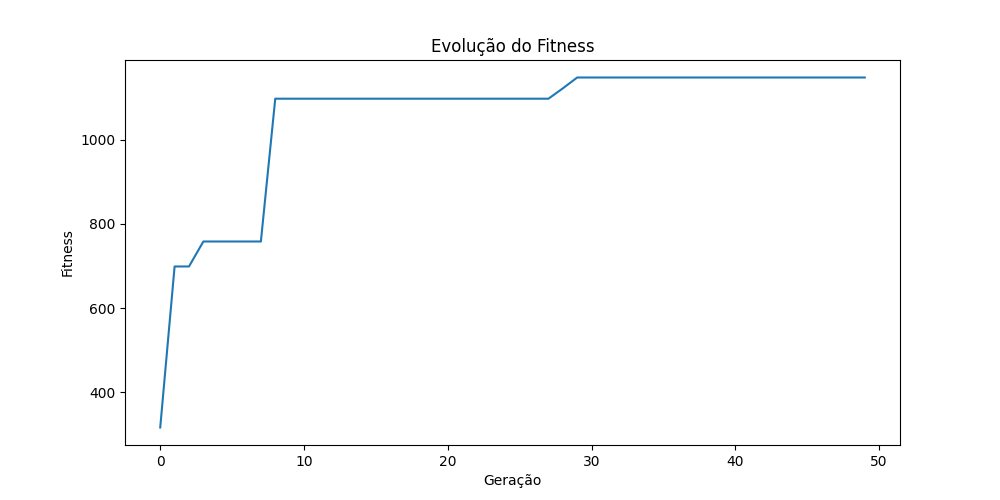
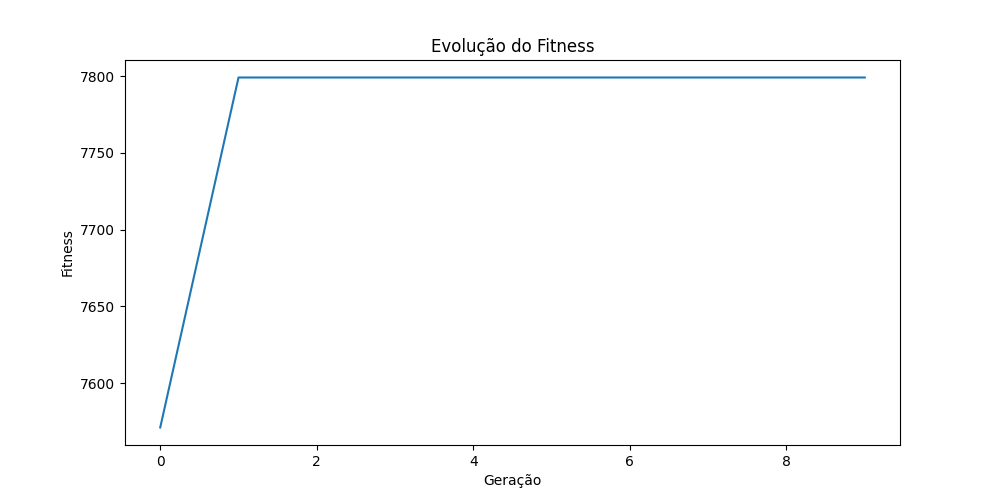
Melhorado a função do fitness e a probabilidade de mutação

diff --git a/robo_exercicio.py b/robo_exercicio.py
@@ -633,7 +633,7 @@ class IndividuoPG:
         return 0
 
 
-    def mutacao(self, probabilidade=0.1):
+    def mutacao(self, probabilidade=0.2):
         self.mutacao_no(self.arvore_aceleracao, probabilidade)
         self.mutacao_no(self.arvore_rotacao, probabilidade)
 
@@ -732,10 +732,12 @@ class ProgramacaoGenetica:
                 
                 # Calcular fitness
                 fitness_tentativa = (
-                    robo.recursos_coletados * 100 +  # Pontos por recursos coletados
-                    robo.distancia_percorrida * 0.1 -  # Pontos por distância percorrida
-                    robo.colisoes * 50 -  # Penalidade por colisões
-                    (100 - robo.energia) * 0.5  # Penalidade por consumo de energia
+                    robo.recursos_coletados * 300 +  # Aumentado de 100 para 300
+                    robo.distancia_percorrida * 0.2 +  # Aumentado de 0.1 para 0.2
+                    (1000 - robo.tempo_parado) * 0.5 +  # Novo: penalidade por ficar parado
+                    robo.energia * 0.3 +  # Novo: bônus por manter energia
+                    (1000 - robo.colisoes * 30) +  # Reduzido de 50 para 30
+                    (5000 if robo.meta_atingida else 0)  # Aumentado de 500 para 5000
                 )
                 
                 # Adicionar pontos extras por atingir a meta

diff --git a/README.md b/README.md
@@ -22,4 +22,17 @@ Aumentado o range para random.uniform(-10, 10) para permitir comportamentos mais
 Aumentado o tamanho da população para 200 indivíduos
 Aumentado a profundidade da árvore para 6 níveis
 Aumentado o número de gerações para 10
->>>>>>> 6fb22e2 (Alteração das constantes e parâmetros)
+
+4. Probabilidade de Mutação
+
+Aumentado de 0.1 para 0.2 a probabilidade
+
+5. Função de Fitness
+
+Aumentado o peso dos recursos coletados pra 300
+Adicionado bônus por manter energia
+Adicionado penalidade por ficar parado
+Aumentado os pontos por distância percorrida para 0.2
+Penalidade de colisão reduzida de 50 para 30
+
+
